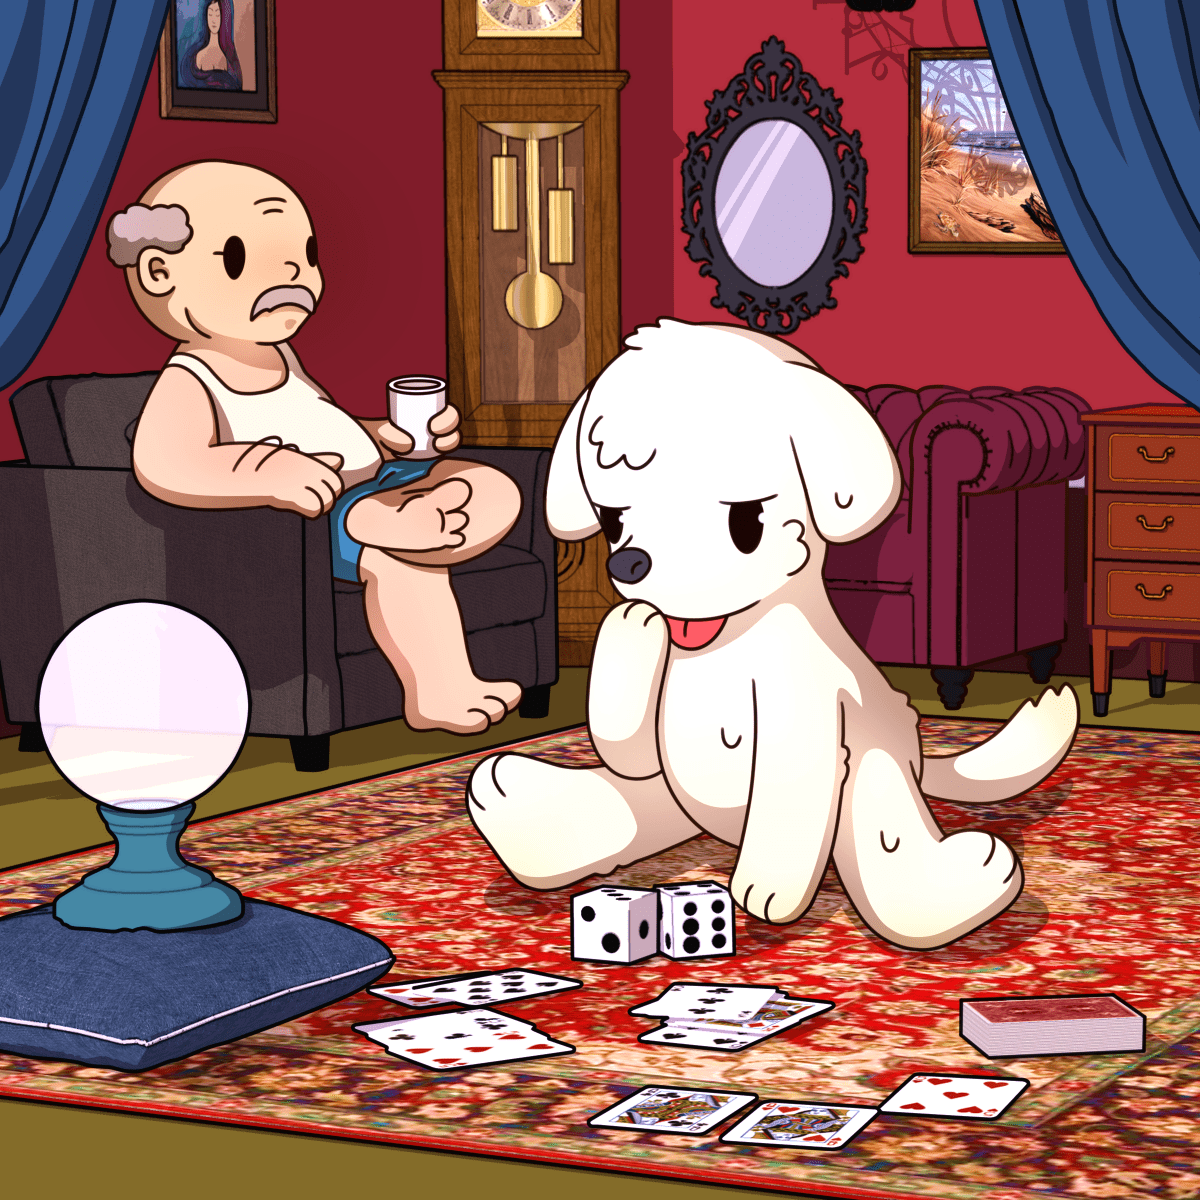
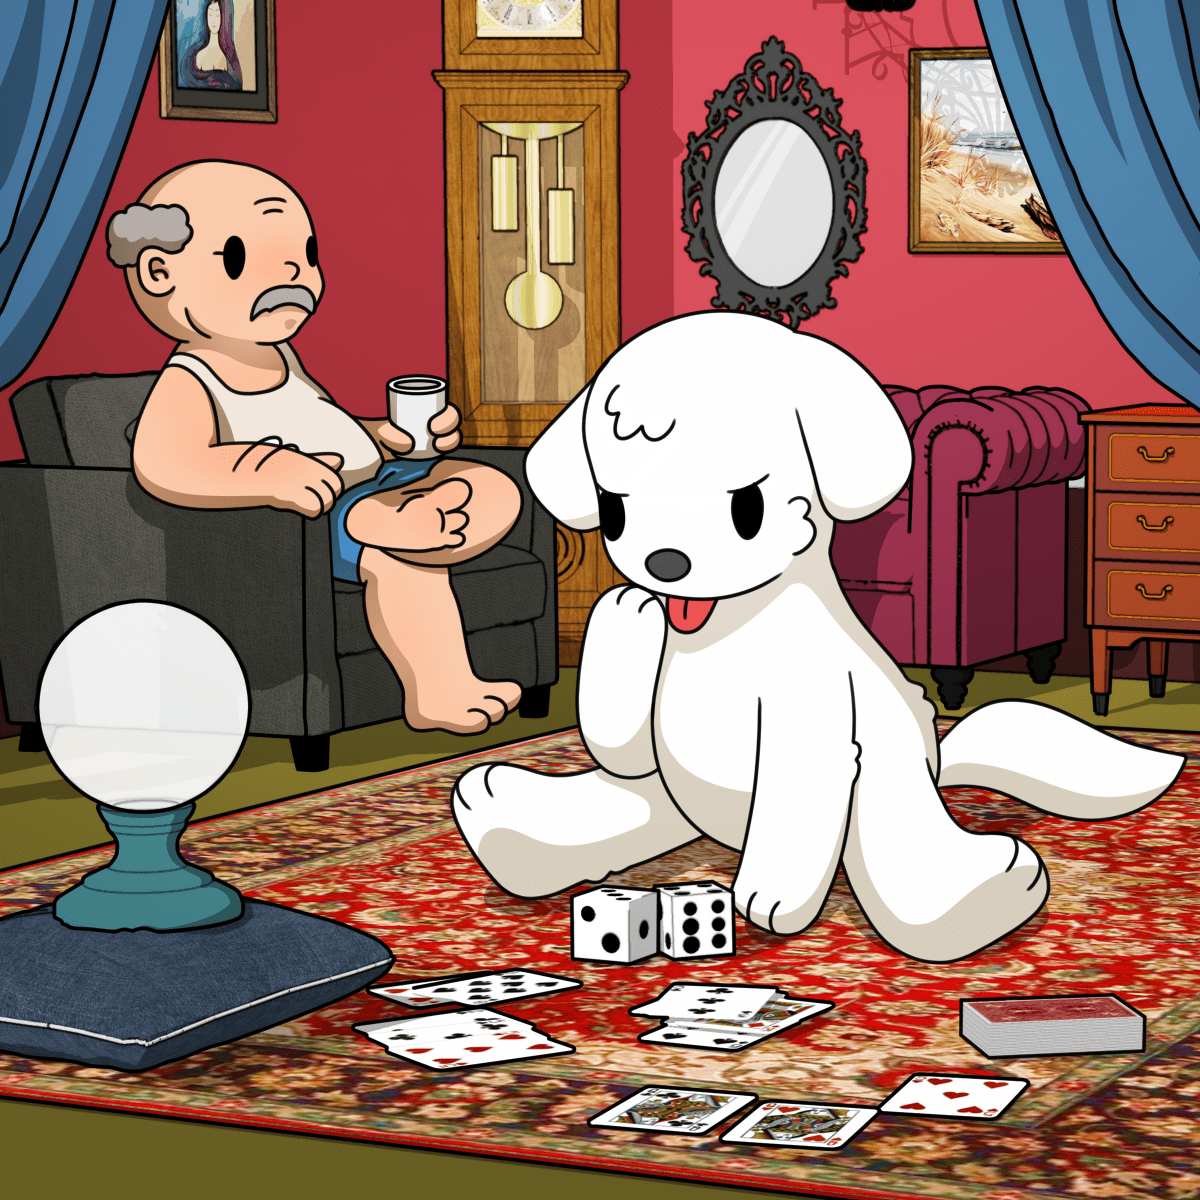
Style: drunkendog 이미지 업데이트

diff --git a/client/src/components/Message/index.tsx b/client/src/components/Message/index.tsx
@@ -4,6 +4,7 @@ import { useRouter } from 'next/router';
 import profileDefault from '/public/static/images/fortunedogprofile.png';
 import kcalProfile from '/public/static/images/kcaldogprofile.png';
 import recipeProfile from '/public/static/images/recipedogprofile.png';
+import drunkenprofile from '/public/static/images/drunkenprofile.png';
 import { CHAT } from '@/consts/chatType';
 
 interface MessageProps {
@@ -21,7 +22,9 @@ export const Message = React.forwardRef<HTMLLIElement, MessageProps>(
         setProfileImage(kcalProfile);
       } else if (router.query.dog === CHAT.RECIPE) {
         setProfileImage(recipeProfile);
-      } else {
+      } else if(router.query.dog === CHAT.DRUNKEN) {
+        setProfileImage(drunkenprofile)
+      }else {
         setProfileImage(profileDefault);
       }
     }, []);

diff --git a/client/src/consts/chatDogInfo.ts b/client/src/consts/chatDogInfo.ts
@@ -2,6 +2,7 @@ import { CHAT } from './chatType';
 import fortuneImage from '/public/static/images/fortune.png';
 import kcalImage from '/public/static/images/kcaldog.png';
 import recipeImage from '/public/static/images/recipe.png';
+import drunkenImage from '/public/static/images/drunken.png';
 
 export const chatDogList = [
   {
@@ -69,7 +70,7 @@ export const chatDogList = [
     mainText: ['나한테 취하나 안취하나?', '낭만 강아지 드렁큰독'],
     keyword: '드렁큰독',
     button: '한껏 취하러 가기',
-    imgPath: fortuneImage,
+    imgPath: drunkenImage,
     tag: ['#술', '#칵테일', '#안주', '#분위기', '#낭만', '#꿀조합', '#하이볼'],
     explain: [''],
     detailtext: ['안주부터 칵테일까지', '당신의 드렁큰피디아', '낭만 ✨ 술 🍾 나 👸'],

diff --git a/client/src/pages/detail/[dog].tsx b/client/src/pages/detail/[dog].tsx
@@ -21,7 +21,7 @@ import { DateTime } from '@/store/dateTime';
 import { GetServerSidePropsContext } from 'next';
 
 const Container = styled.section<{ route: string; color: string }>`
-  width: 40%;
+  width: 90%;
   position: relative;
   margin: 0 auto;
   article {
@@ -84,12 +84,7 @@ const Container = styled.section<{ route: string; color: string }>`
     font-weight: 700;
   }
 
-  @media (max-width: 1024px) {
-    width: 60%;
-  }
-  @media (max-width: 750px) {
-    width: 90%;
-  }
+ 
 `;
 
 const Detail = ({ dog }: { dog: string }) => {

diff --git a/client/src/pages/index.tsx b/client/src/pages/index.tsx
@@ -148,6 +148,9 @@ export default function Home() {
     if (dogRefs.current.length > 0) {
       getScrollHeight = dogRefs.current.map((current) => current?.offsetTop) as number[];
     }
+    window.addEventListener('resize', () => {
+      window.scrollTo(0, 0);
+    });
     window.addEventListener('scroll', () => {
       const scrollY = window.scrollY;
       if (getScrollHeight[0] <= scrollY && getScrollHeight[1] - 200 > scrollY) {
